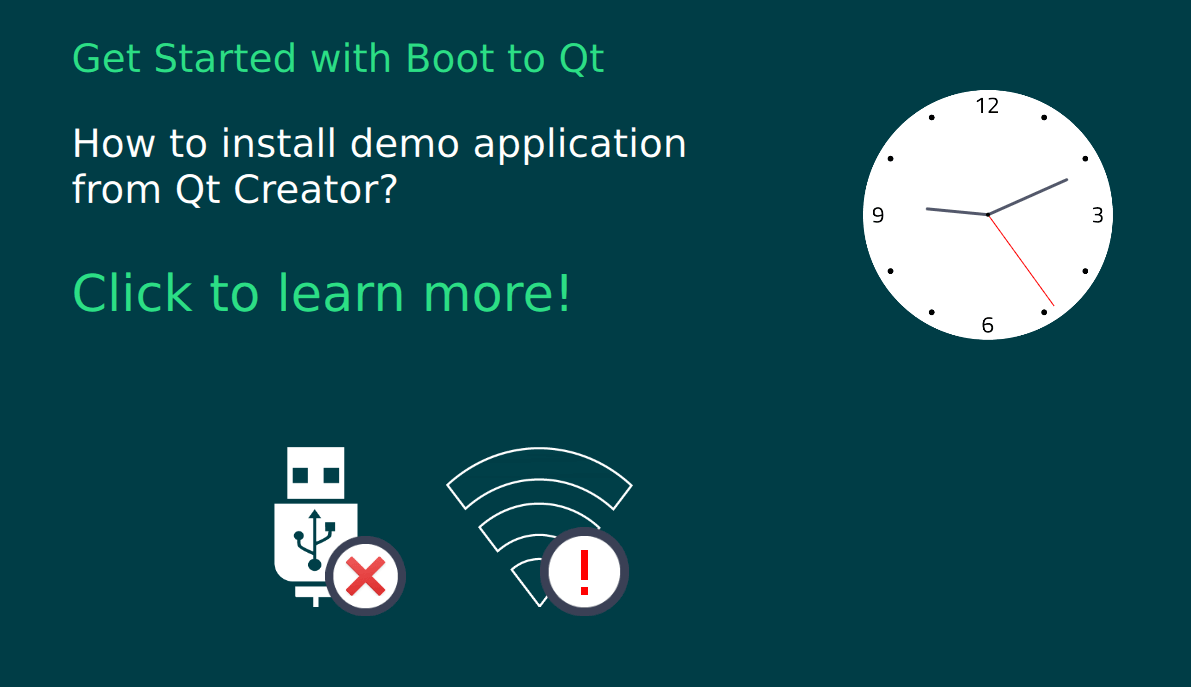
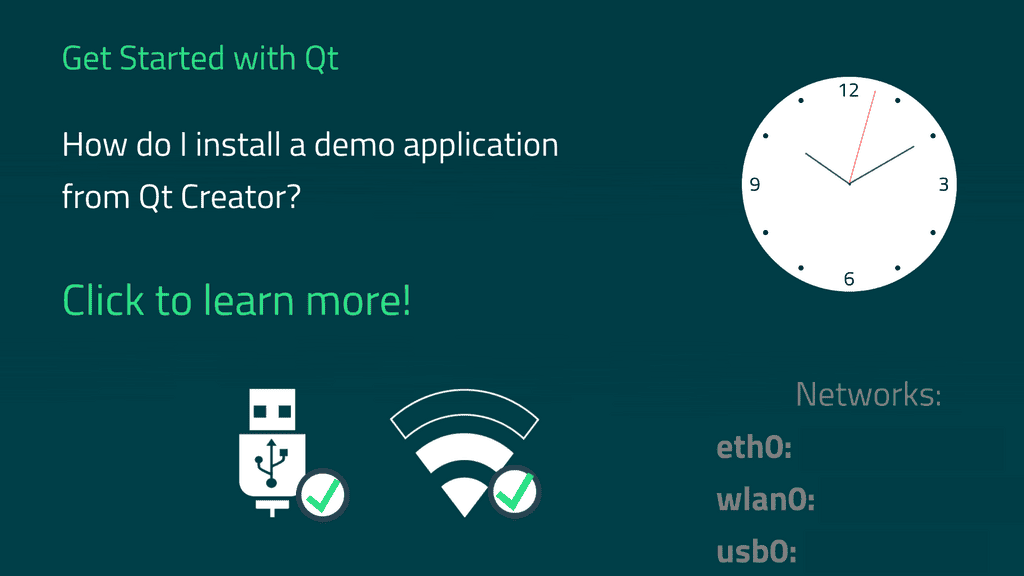
startupscreen: Drop Boot to Qt from the title
Make the demo more generic and don't mention Boot to Qt.

diff --git a/startupscreen/MainView.qml b/startupscreen/MainView.qml
@@ -69,7 +69,7 @@ Item {
         Text {
             id: headerText_1
             color: "#2cde85"
-            text: qsTr("Get Started with Boot to Qt ") + Qt.application.version
+            text: qsTr("Get Started with Qt ") + Qt.application.version
             anchors.top: panel.top
             anchors.left: panel.left
             font.pixelSize: textNormal
@@ -79,7 +79,7 @@ Item {
         Text {
             id: bodyText
             color: "#ffffff"
-            text: qsTr("How to install demo application\nfrom Qt Creator?")
+            text: qsTr("How do I install a demo application\nfrom Qt Creator?")
             font.pixelSize: textNormal
             font.family: "Titillium Web"
             anchors.left: panel.left
